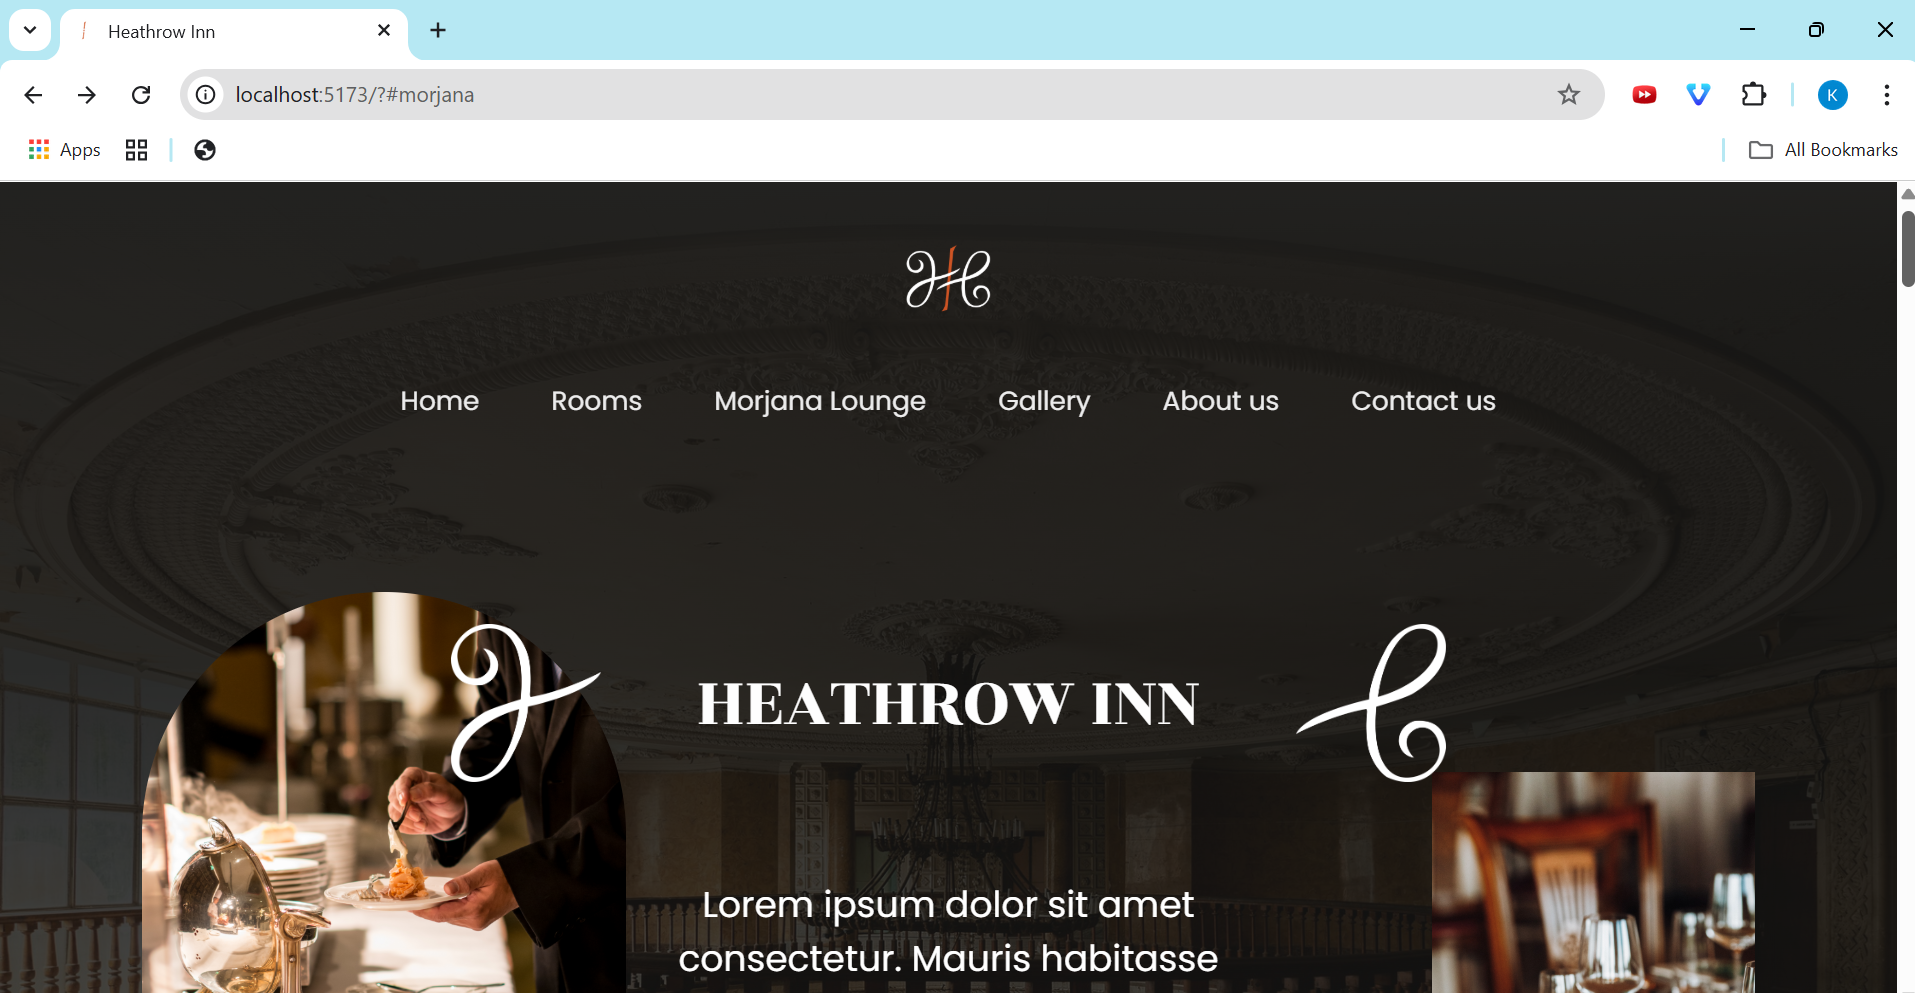
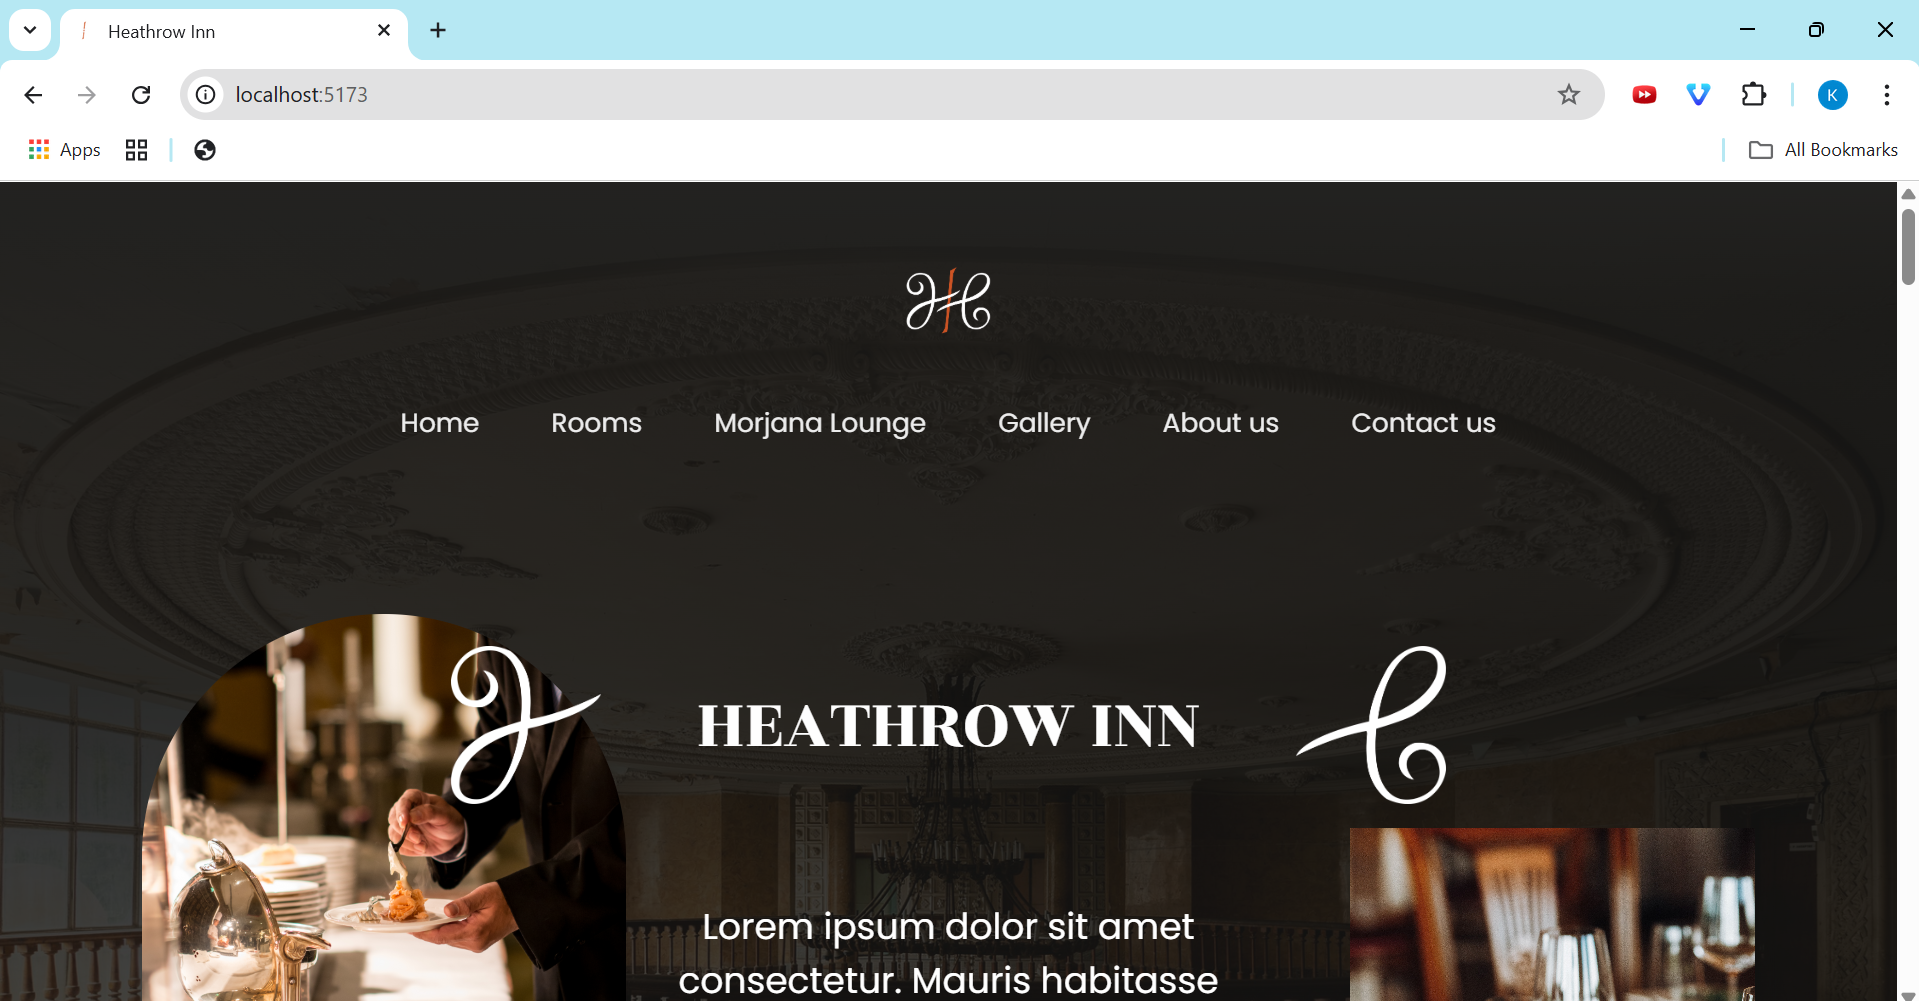
Update code and README

diff --git a/src/index.css b/src/index.css
@@ -91,8 +91,8 @@ h6 {
 }
 
 .right-img-style {
-  width: 20%;
-  height: auto;
+  width: 270px;
+  height: 300px;
   object-fit: cover;
   background-color: rgba(0, 0, 0, 0.1);
   display: block;
